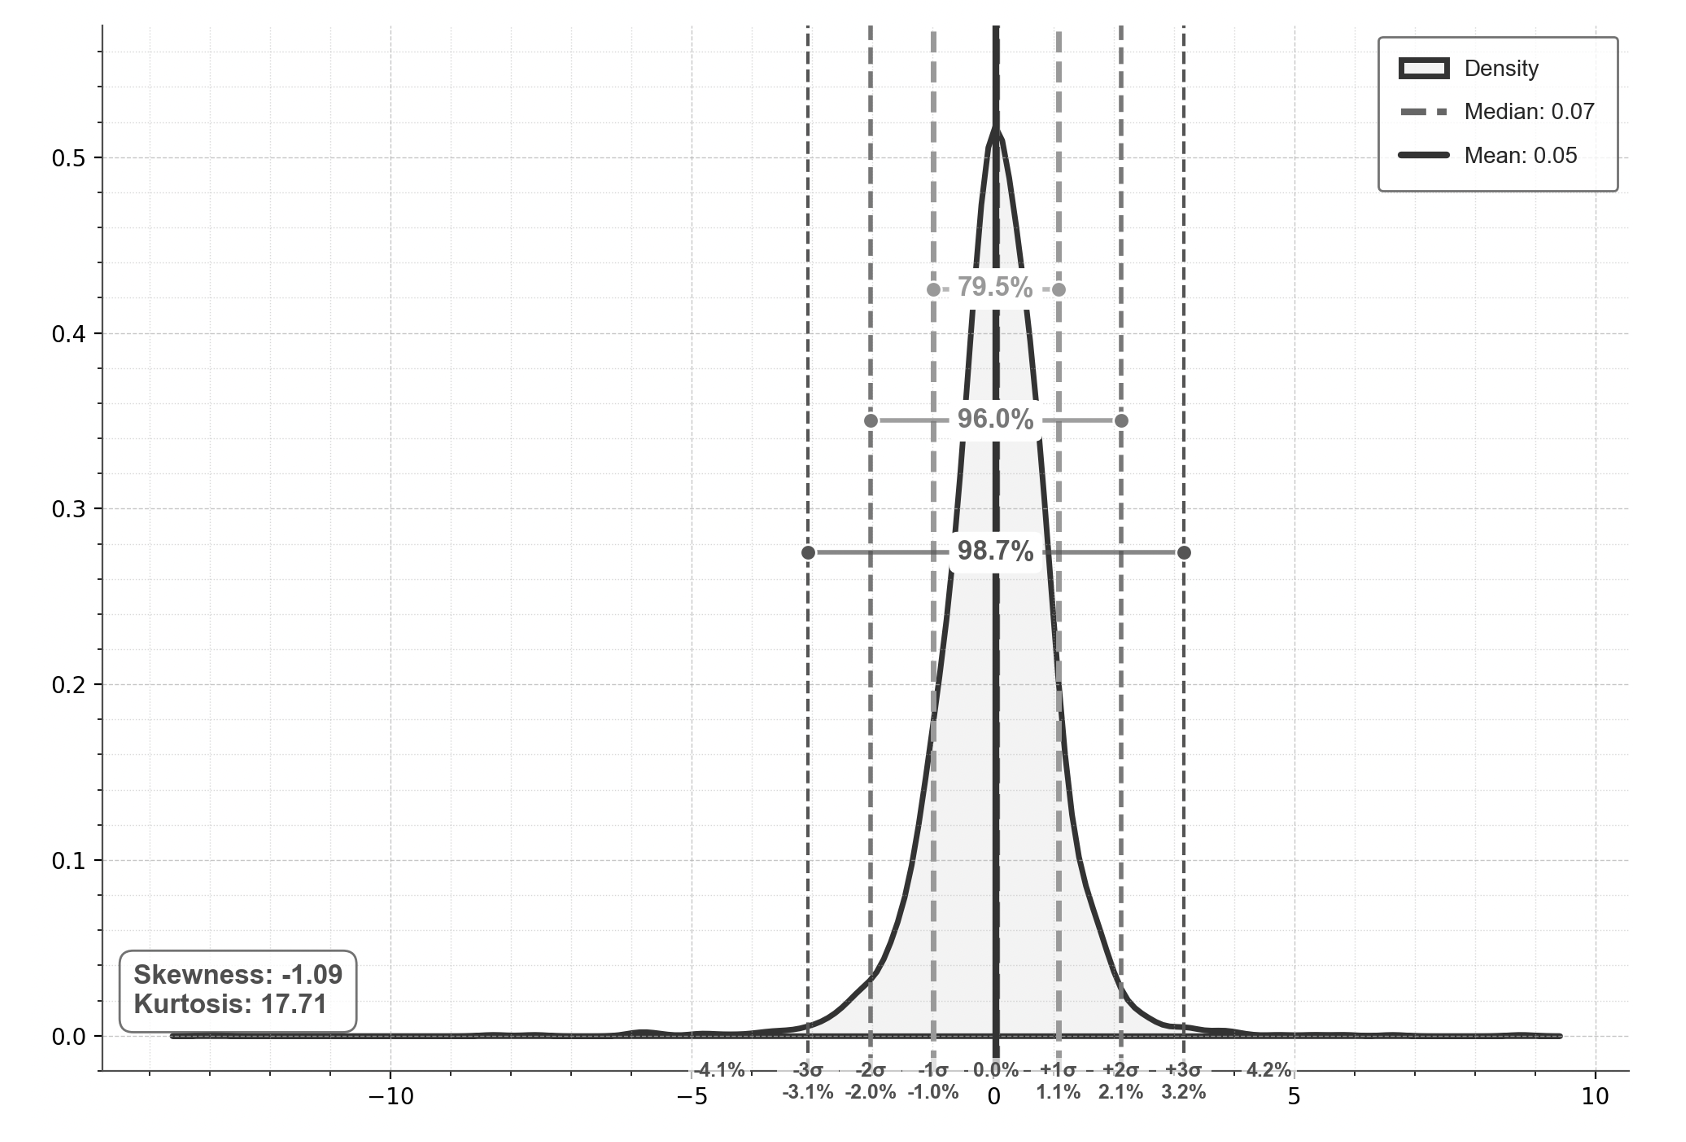
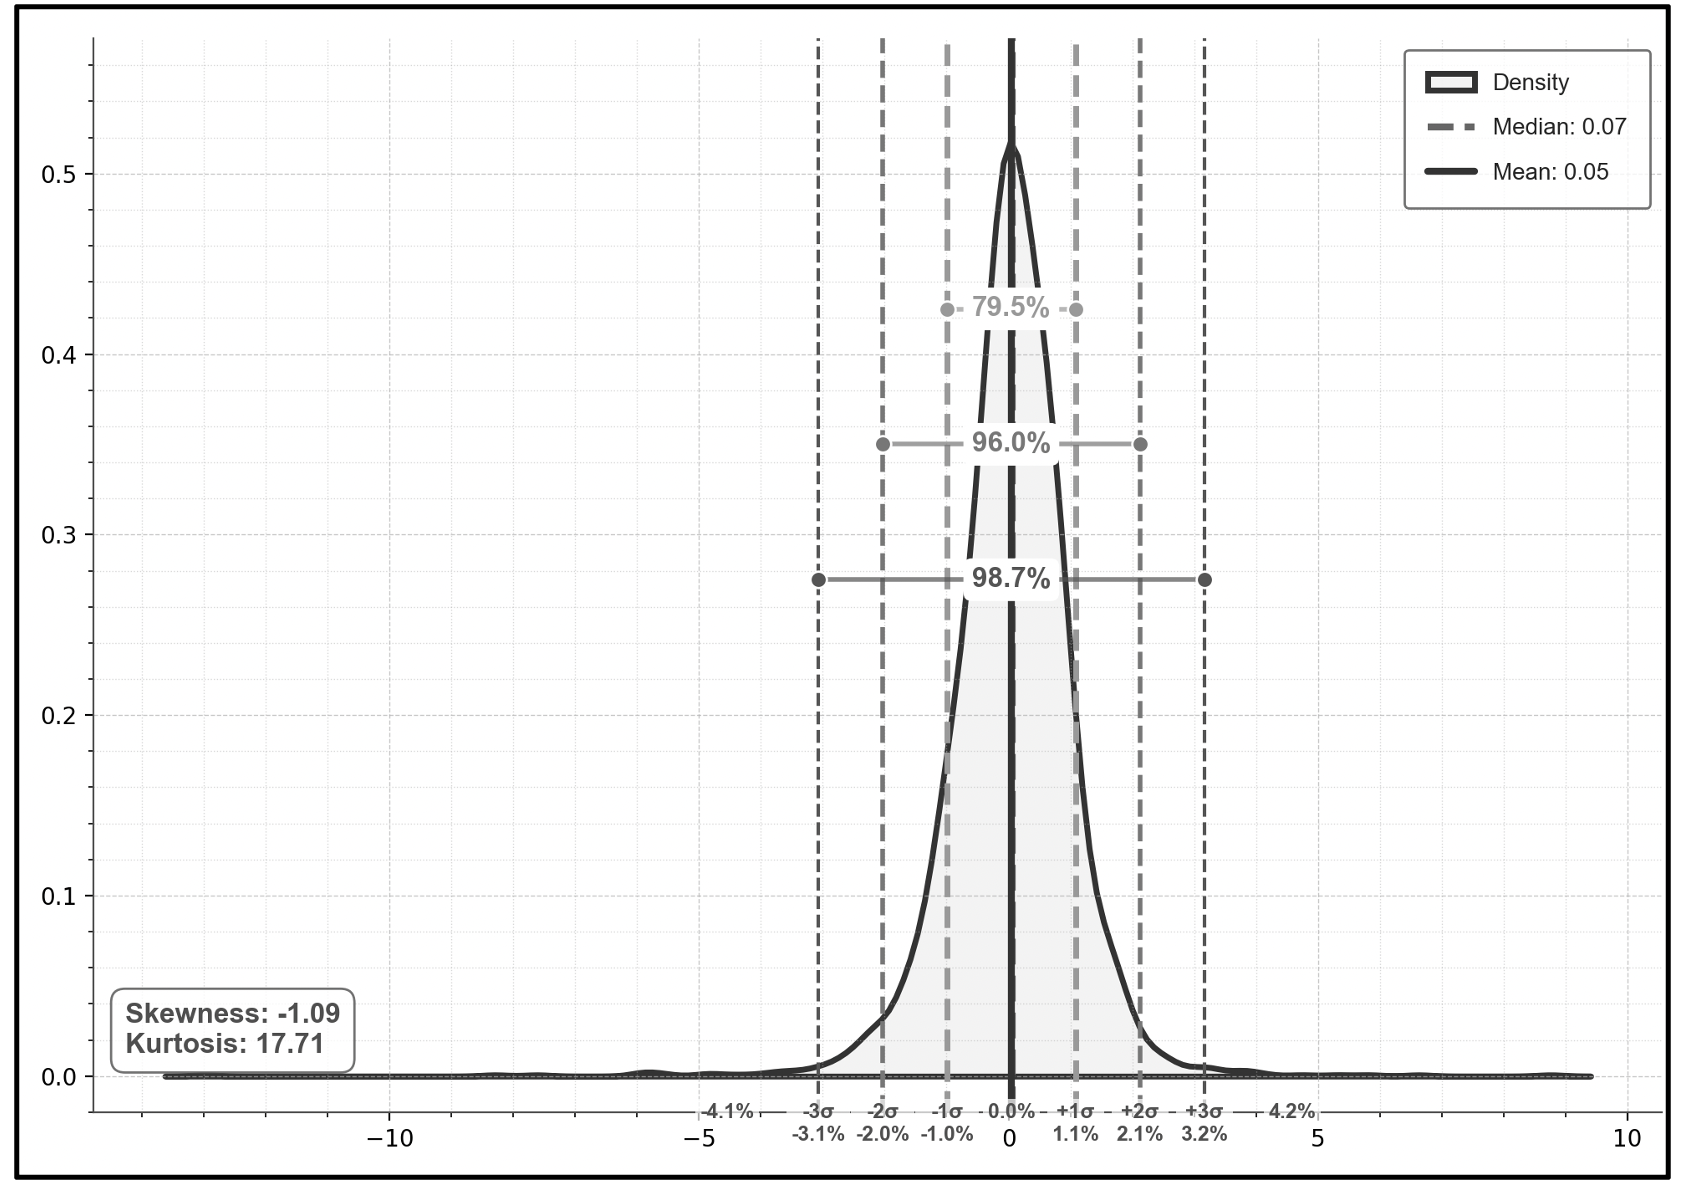
20250414: updating files 9

diff --git a/app/indian-market-overview/page.js b/app/indian-market-overview/page.js
@@ -96,7 +96,7 @@ export default function IndianMarketOverviewPage() {
           </div>
         </div>
         <p>
-        <span className={styles.bold}>Interest Rates & RBI Policy Stance: </span><br />
+          <p><span className={styles.bold}>Interest Rates & RBI Policy Stance: </span><br /></p>
         <ul className={styles.list}>
           <li>
           <span className={styles.bold}>Recent Rate Cut: </span>
@@ -122,7 +122,7 @@ export default function IndianMarketOverviewPage() {
           <p className={styles.chartCaption}>RBI Policy Repo Rate. Source: RBI </p>
         </div>
         <p>
-        <span className={styles.bold}>Fiscal Deficit & Government Spending: </span>
+          <p><span className={styles.bold}>Fiscal Deficit & Government Spending: </span></p>
         <ul className={styles.list}>
           <li>
           <span className={styles.bold}>Fiscal Deficit Reduction: </span><br />
@@ -153,8 +153,8 @@ export default function IndianMarketOverviewPage() {
             <Image
               src="/Resources/indian-market-overview/cmp-inr-1.png"
               alt="Capital Market Performance INR - Indices (10 Year)"
-              width={600}
-              height={350}
+              width={1000}
+              height={500}
               className={styles.chartImage} />
             <p className={styles.chartCaption}><span className={styles.bold}>Capital Market Performance INR - Indices (10 Year)</span></p>
           </div>
@@ -164,8 +164,8 @@ export default function IndianMarketOverviewPage() {
             <Image
               src="/Resources/indian-market-overview/cmp-inr-2.png"
               alt="Capital Market Performance INR - Indices (6 Year)"
-              width={600}
-              height={350}
+              width={1000}
+              height={500}
               className={styles.chartImage} />
             <p className={styles.chartCaption}><span className={styles.bold}>Capital Market Performance INR - Indices (6 Year)</span></p>
           </div>
@@ -211,7 +211,7 @@ export default function IndianMarketOverviewPage() {
               width={1000}
               height={500}
               className={styles.chartImage} />
-            <p className={styles.chartCaption}>Historical Returns: 6 Years </p>
+            <p className={styles.chartCaption}><span className={styles.bold}>Historical Returns: 6 Years</span> </p>
           </div>
         </div>
         <p>
